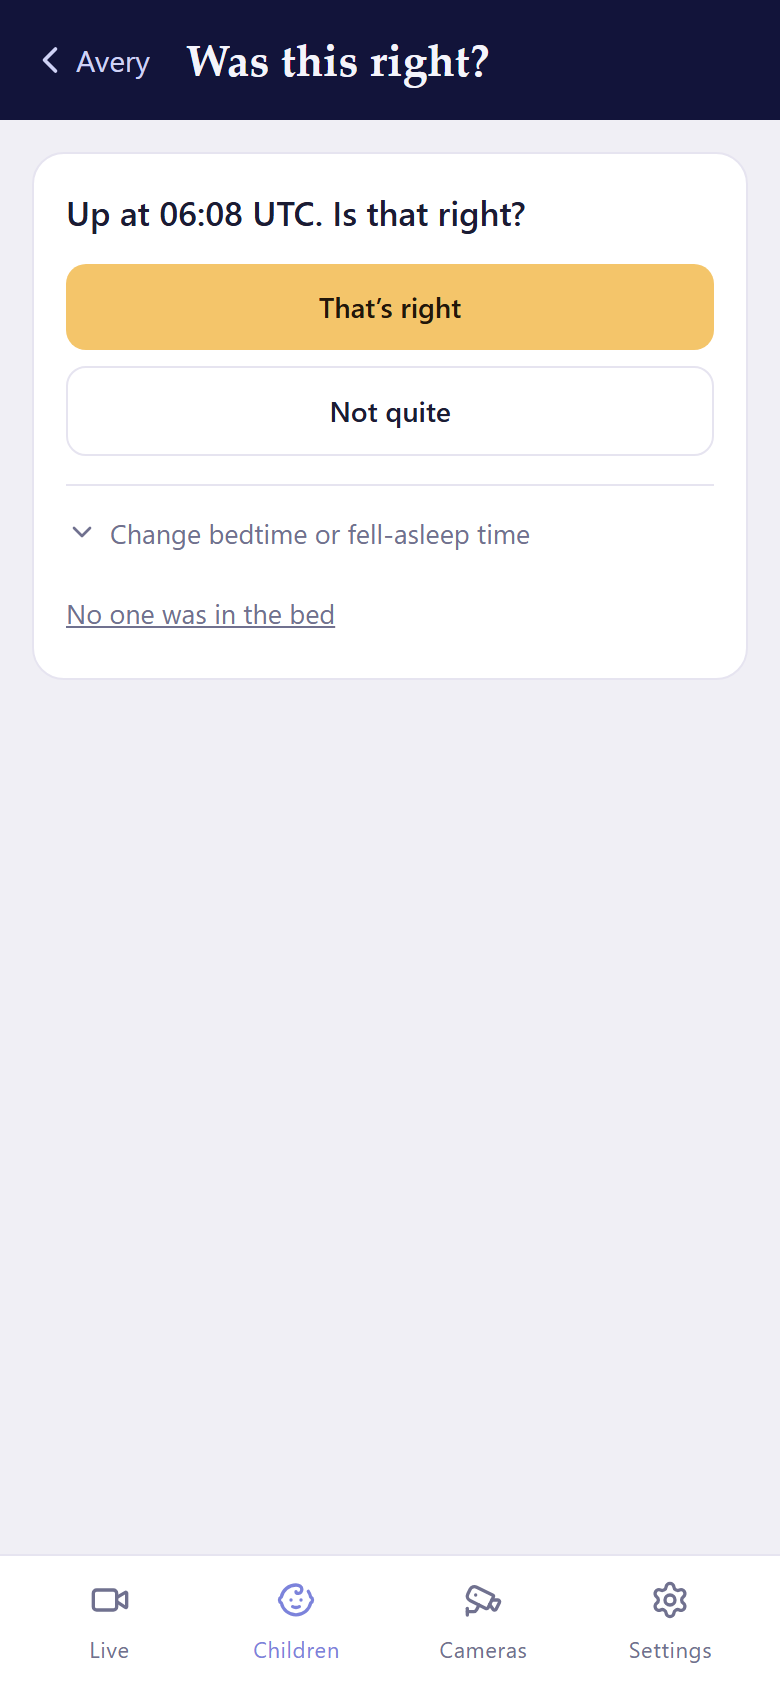
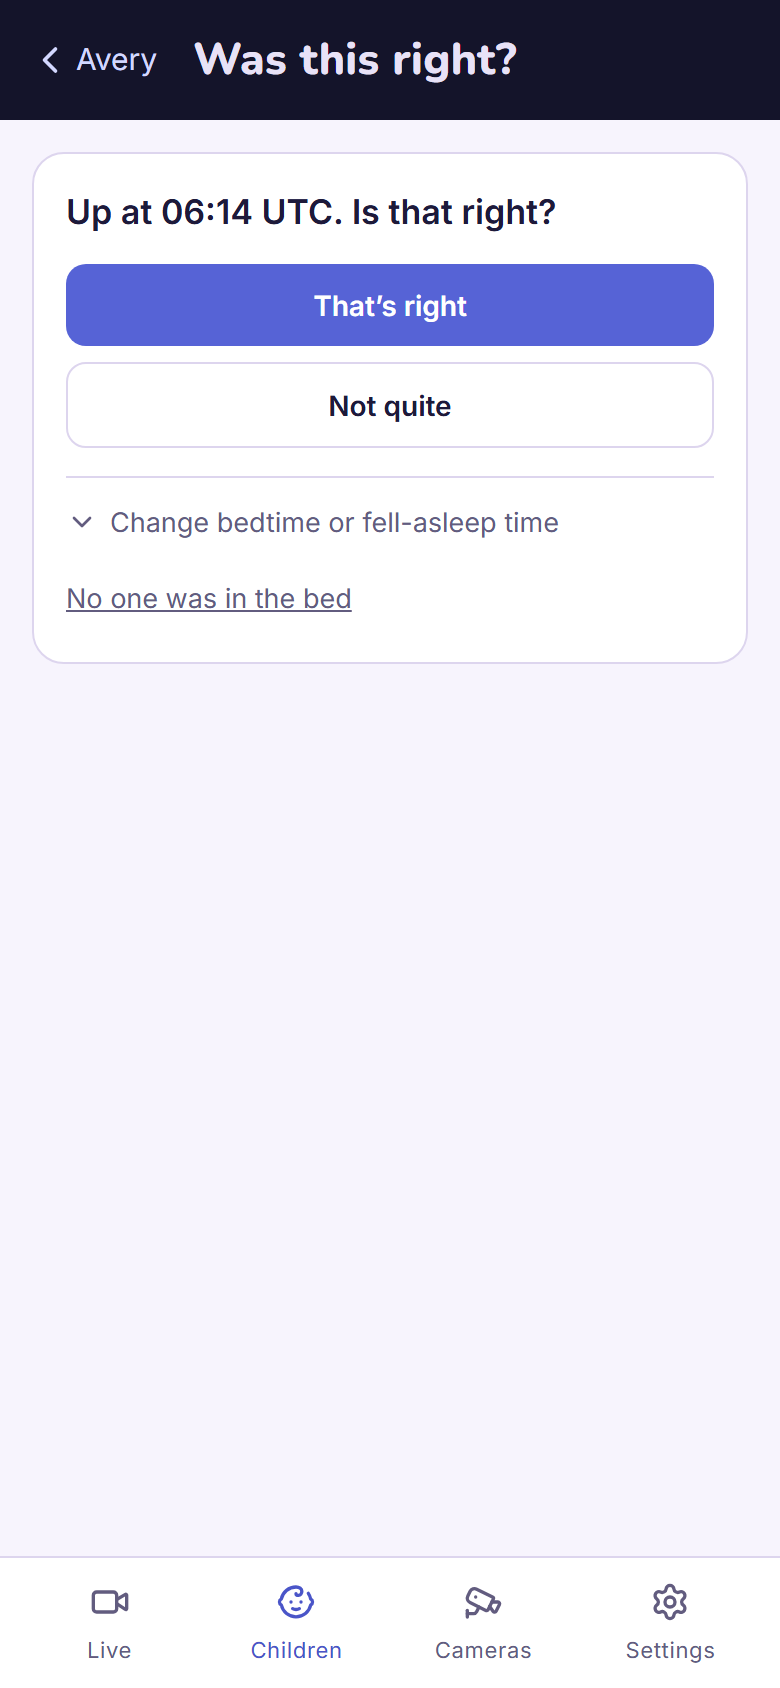
Refresh the documentation walkthrough screenshots for 0.46.0
Captured from sauso/nightlight:dev at 0d99de5 (the image's revision label matched origin/dev) with
e2e/walkthrough/run.sh. All eleven images are refreshed: the shared look changed (index.css, header, navigation,
Tailscale and About cards) and the first-run and Add camera screens changed.

- e2e/walkthrough/capture.mjs: the Add camera screen now starts with "Find cameras on my network" and keeps the form
  behind "Add a camera manually" (#945), so the capture opens that card before filling it in. The first-run capture
  already clicked through the welcome screen (#997).
- docs/README.md: the step 1 caption (a welcome screen, then the account step, "step 1 of 7"), the step 7 caption
  (the network search, then the manual card), and a plain note that the phone live image shows "No signal" (it did in
  the previous refresh too; the desktop image shows the synthetic picture).

Read every image: no error banner, spinner or half-loaded list; only the fictional household appears.
Not checked: dark mode, a tablet, real camera video.

diff --git a/docs/README.md b/docs/README.md
@@ -47,13 +47,13 @@ A short tour of Nightlight with a made-up household: two children, Avery and Ril
 
 ### 1. Create the admin account
 
-The first time you open Nightlight it asks you to create the admin account. This is the only time you see this screen.
+The first time you open Nightlight, a welcome screen lists the setup steps. The first step creates the admin account, shown here as step 1 of 7. This is the only time you see these screens.
 
 ![First-run setup on a phone](screenshots/setup-mobile.png)
 
 ### 2. Watch live
 
-The Live tab shows every camera. On a wide screen the navigation moves from the bottom of the screen to a side bar on the left.
+The Live tab shows every camera. On a wide screen the navigation moves from the bottom of the screen to a side bar on the left. The phone image was captured without a picture, so its tiles say "No signal"; a camera that is working shows its video there, as in the desktop image.
 
 ![Live view on a phone](screenshots/live-mobile.png)
 
@@ -87,7 +87,7 @@ Motion and sound alerts are listed on the child's page, each with a snapshot fro
 
 ### 7. Add a camera
 
-Enter the camera's address and stream details, or use the ONVIF button to fill them in. This form holds example values and was not saved. See [Cameras and caregivers](cameras.md).
+**Find cameras on my network** searches for cameras and offers each one it finds. To add a camera by hand, open **Add a camera manually**, enter its address and stream details, or use the ONVIF button to fill them in. This form holds example values and was not saved. See [Cameras and caregivers](cameras.md).
 
 ![Add camera on a phone](screenshots/add-camera-mobile.png)
 
